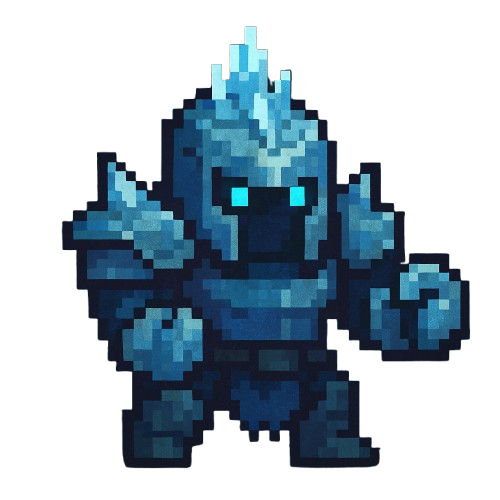
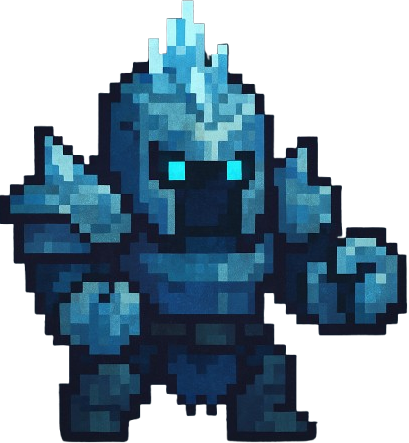
виправлений мінібос

diff --git a/core/src/main/java/com/pixelteam/adventures/entities/enemies/MiniBossIceKnight.java b/core/src/main/java/com/pixelteam/adventures/entities/enemies/MiniBossIceKnight.java
@@ -9,7 +9,7 @@ import com.pixelteam.adventures.utils.Stats;
 import com.pixelteam.adventures.weapons.MeleeWeapon;
 
 public class MiniBossIceKnight extends Boss {
-    private static final float MINI_BOSS_SIZE = 80f; // Reduced from 105f to 80f
+    private static final float MINI_BOSS_SIZE = 35f; // Reduced from 105f to 80f
     private static final int MINI_BOSS_HEALTH = 300;
     private static final float MINI_BOSS_SPEED = 40f;
     private static final float ATTACK_RANGE = 50f;
@@ -289,20 +289,20 @@ public class MiniBossIceKnight extends Boss {
     private void renderWeapon(SpriteBatch batch) {
         if (weapon == null || weapon.getTexture() == null) return;
 
-        float weaponWidth = weapon.getWidth() * 0.7f;
-        float weaponHeight = weapon.getHeight() * 0.7f;
+        float weaponWidth = weapon.getWidth() * 0.5f;
+        float weaponHeight = weapon.getHeight() * 0.5f;
 
         float offsetX;
         float offsetY;
         float totalRotation;
 
         if (facingLeft) {
-            offsetX = -27.0f;
-            offsetY = -7.0f;
+            offsetX = -13.5f;
+            offsetY = -3.5f;
             totalRotation = weaponRotation + weaponAttackAnimation;
         } else {
-            offsetX = 27.0f;
-            offsetY = -7.0f;
+            offsetX = 13.5f;
+            offsetY = -3.5f;
             totalRotation = weaponRotation - weaponAttackAnimation;
         }
 
@@ -321,8 +321,8 @@ public class MiniBossIceKnight extends Boss {
     }
 
     private void renderHealthBar(SpriteBatch batch) {
-        float barWidth = 70f;
-        float barHeight = 8f;
+        float barWidth = 35f;
+        float barHeight = 4f;
         float barOffsetY = height;
 
         float barX = position.x + (width - barWidth) / 2f;
@@ -414,11 +414,11 @@ public class MiniBossIceKnight extends Boss {
         float offsetY;
 
         if (facingLeft) {
-            offsetX = -20.0f;
-            offsetY = -5.0f;
+            offsetX = -10.0f;
+            offsetY = -2.5f;
         } else {
-            offsetX = 20.0f;
-            offsetY = -5.0f;
+            offsetX = 10.0f;
+            offsetY = -2.5f;
         }
 
         float weaponX = position.x + width / 2.0f + offsetX - weaponWidth / 2.0f;
@@ -440,7 +440,7 @@ public class MiniBossIceKnight extends Boss {
         collisionStunTimer = COLLISION_STUN_DURATION;
         isStunnedFromCollision = true;
         velocity.set(0, 0);
-        
+
         if (target != null) {
             Rectangle playerBounds = target.getBounds();
             Vector2 pushDirection = new Vector2(playerBounds.x + playerBounds.width / 2 - position.x, playerBounds.y + playerBounds.height / 2 - position.y).nor();
